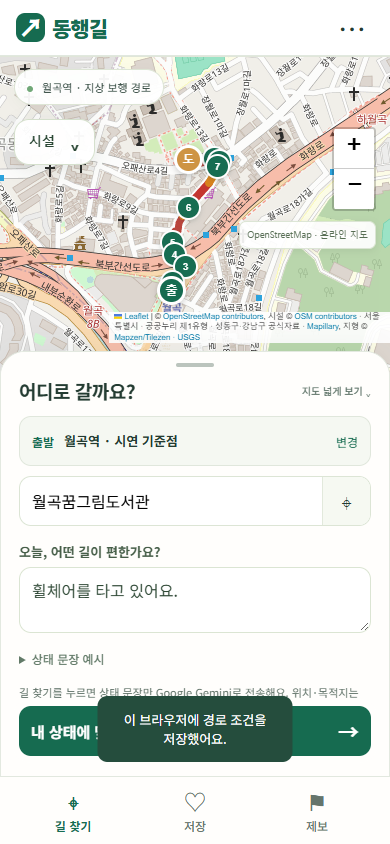
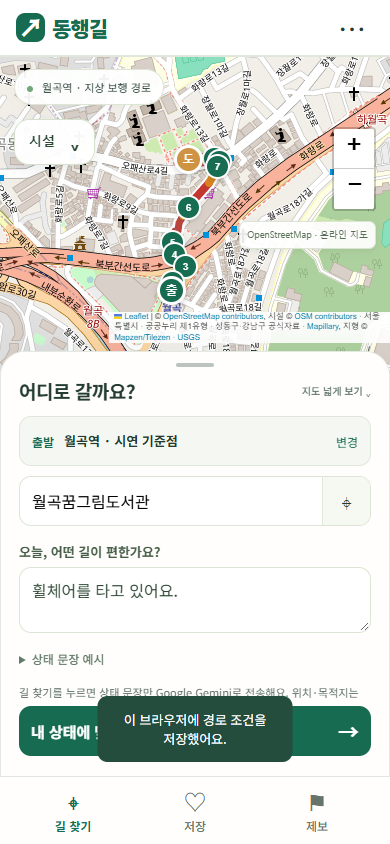
feat: add Vercel Gemini API function and shared request handler

diff --git a/donghaeng-nav/docs/vercel-api.md b/donghaeng-nav/docs/vercel-api.md
@@ -1,0 +1,62 @@
+# Vercel에서 Gemini API 연결하기
+
+작성: 2026-11-01, Asia/Seoul. 코드와 로컬 모의 검사를 준비한 상태다. 실제 Vercel 빌드·배포와 사용자 키의 Gemini 연결은 아직 확인하지 않았다. 재배포는 사용자가 진행한다.
+
+## 요청이 실행되는 방식
+
+휴대폰의 ‘내 상태에 맞는 길 찾기’ → 같은 사이트의 `POST /api/analyze-condition` → Vercel Node.js 함수 → Gemini → 검증된 이동 조건 → 기존 브라우저 경로 엔진 순서다. 브라우저는 상태 문장만 보내고, 서버 함수가 환경변수의 키를 사용한다. 지도 좌표·이동 기록을 Gemini에 보내지 않는다. 함수 실행 버튼이나 별도 AI 버튼을 추가할 필요는 없다.
+
+- `api/index.mjs`: Vercel이 요청마다 호출하는 Node.js 함수 진입점. `app.listen()` 없이 기본 내보내기 함수로 요청을 받는다.
+- `vercel.json`: 실제 화면은 `donghaeng-nav/dist/`에서 제공하고, `/api/status`와 `/api/analyze-condition`을 하나의 함수로 연결한다.
+- `donghaeng-nav/scripts/condition-api.mjs`: 로컬 서버와 Vercel이 함께 쓰는 Gemini 요청·입력/응답 검증·오류 처리.
+- 로컬 전용 `/setup`과 `/api/config`는 Vercel 함수에서 제공하지 않는다. 배포 함수는 `.env` 파일을 읽거나 키를 파일로 저장하지 않는다.
+
+Vercel의 공식 [Node.js 함수](https://vercel.com/docs/functions/runtimes/node-js), [함수 시작 안내](https://vercel.com/docs/functions/quickstart), [설정 파일](https://vercel.com/docs/project-configuration/vercel-json)에 맞춘 구성이다. 함수 내부 공유 코드는 `api/` 밖에 두어 별도의 공개 함수가 생기지 않게 했다.
+
+## Vercel 화면에서 할 일
+
+1. 코드 변경을 커밋·푸시한 뒤, 해당 커밋으로 배포를 생성한다. 기존 커밋을 Redeploy하는 것만으로 새 API 파일이 생기지는 않는다.
+2. 프로젝트 Root Directory는 저장소 최상위 `/`로 유지한다. `donghaeng-nav/dist`를 Root Directory로 바꾸면 최상위 `api/`와 `vercel.json`을 읽을 수 없다.
+3. Application Preset은 `Other`를 유지한다. `vercel.json`에서 Build Command와 Install Command를 빈 문자열, Output Directory를 `donghaeng-nav/dist`로 지정했다. 별도 npm 패키지 설치는 필요 없다.
+4. 프로젝트 Settings → Environment Variables에서 아래 값을 확인한다. 이미 `.env`를 import했다면 이름과 환경 범위를 확인한다. 값은 채팅이나 코드에 붙여넣지 않는다.
+
+| 이름 | 값·범위 |
+| --- | --- |
+| `GEMINI_API_KEY` | 실제 키. 운영 주소는 Production 범위에 설정해야 한다. Preview 주소에서도 검사하려면 Preview에도 설정한다. |
+| `GEMINI_MODEL` | 로컬에서 연결을 확인한 모델명. 생략하면 기존 서버 기본값을 사용한다. |
+
+이 함수에는 `PORT` 설정이 필요 없다. 환경변수를 바꾼 뒤에는 새 배포가 필요하다. [Vercel 환경변수 안내](https://vercel.com/docs/environment-variables).
+
+5. 최신 배포가 Ready이면 Production · Current 상태를 확인하거나 Promote한다. 재배포·운영 전환은 사용자가 직접 진행한다.
+
+## 배포 후 확인하기
+
+먼저 [현재 운영 주소의 API 상태](https://aiaiaiaiaiaiaiai.vercel.app/api/status)를 연다. JSON의 `configured: true`는 **함수가 키를 읽었다는 뜻**이며, Google 인증이나 모델 호출 성공을 확인한 결과가 아니다. 이 상태 확인은 Gemini를 호출하지 않는다.
+
+다음으로 앱 화면에서 상태 문장을 입력하고 기존 길 찾기 버튼을 누른다. 화면에 ‘Gemini 해석’이 표시되는지 확인한다. 실패하면 기존 기기 내 해석으로 대체되며 오류 설명을 표시한다. 실제 키·모델·할당량의 검증은 이 요청이 성공해야 완료된다.
+
+| 증상 | 확인할 항목 |
+| --- | --- |
+| `/api/status`가 404 | 새 API 파일이 있는 커밋을 배포했는지, Root Directory가 저장소 최상위인지 확인 |
+| `configured: false` | `GEMINI_API_KEY` 이름과 Production/Preview 범위, 변수 저장 후 새 배포 여부 확인 |
+| `/api/analyze-condition`을 주소창에서 열면 405 | 이 경로는 JSON POST 전용이므로 정상적인 메서드 제한. 상태 확인은 `/api/status` 사용 |
+| 요청에 502, 화면에 AI 연결 실패 | Vercel Runtime Logs와 Google의 키·모델·접근 권한 확인. 함수는 키나 Google의 원문 오류를 응답에 포함하지 않음 |
+| 429 | Google 할당량 또는 해당 함수 인스턴스의 동시 요청 제한 확인 |
+
+브라우저 코드는 이미 다음 형태의 요청을 보낸다. 직접 새 코드를 입력하거나 키를 브라우저에 넣을 필요는 없다.
+
+```js
+fetch('/api/analyze-condition', {
+  method: 'POST',
+  headers: {'Content-Type': 'application/json'},
+  body: JSON.stringify({condition: '계단을 피하고 중간에 벤치에서 쉬고 싶어요.'})
+});
+```
+
+## 검증과 범위
+
+- `node donghaeng-nav/scripts/test-vercel-api.mjs`: 내보낸 Node 핸들러·rewrite URL·원래 URL·파싱 전/후 본문, 상태·키 누락·메서드·잘못된 입력·다른 Origin·비공개 경로·상위 오류·시간 초과·인스턴스 동시 요청 제한 검사. 결과는 [vercel-api-results.json](vercel-api-results.json)에 있다.
+- `node donghaeng-nav/scripts/test-condition-api.mjs`: 기존 로컬 API·키 설정 후 같은 핸들러에 즉시 적용되는 동작 검사. 실제 사용자 `.env`를 변경하지 않고 임시 모의 키 파일을 사용한다.
+- `CHROME_PATH`를 실제 Chrome 경로로 지정하고 `node donghaeng-nav/scripts/test-auto-plan-ui.cjs`: 기존 버튼의 자동 AI 해석과 기기 내 대체 동작 검사.
+- 검사는 로컬 Node·Chrome과 모의 Google 응답을 사용한다. 실제 Vercel 런타임·빌드 성공, 실제 Gemini 인증·할당량은 미검증이다.
+- 인스턴스 내 동시 요청 제한은 3개이며 전역 사용량 제한이 아니다. 실제 GPS·경로 데이터·35m 정책·HTML은 변경하지 않았다. `research/`는 수정하거나 배포 함수 의존성으로 추가하지 않았다.

diff --git a/수정이력.md b/수정이력.md
@@ -239,3 +239,19 @@
 - 범위: 일반 진행 35m와 별도 이탈·재탐색·도착 기준, 검사 스크립트·결과·화면, HTML 3종·빌드 기록, README·계획·구현 문서·현장 관찰·전달 검증과 수정 이력을 기존 main에 반영한다.
 - 검증: 저장된 코어 24개·브라우저 8개 검사 통과 결과와 HTML 해시를 확인하고, 스테이징 대상의 비밀 값 제외·변경 범위·research 보존을 검사한 뒤 일반 푸시와 원격 main SHA로 반영을 확인한다. 최종 응답에 커밋 링크를 제공한다.
 - 제외·잔여: API 키·인증서·개인 위치 로그·원본 조사 자료는 추가하지 않으며 research는 변경하지 않는다. 조정 후 실제 휴대폰 재검사는 대기 상태다. Vercel 재배포 명령과 실제 Gemini 호출은 수행하지 않는다.
+
+### 2026-11-01 — Vercel Node.js API 연결 준비
+
+- 요청·원인: 정적 배포에서 Gemini를 연결하는 방법과 Node.js 함수 호출 방법을 문의했다. 기존 화면은 이미 `/api/analyze-condition`에 JSON POST를 보내지만, 저장소에는 Vercel 함수 진입점이 없었다. 실제 배포와 운영 전환은 사용자 진행 범위를 유지한다.
+- 변경: 최상위 `api/index.mjs`와 `vercel.json`을 추가했다. 실제 화면은 `donghaeng-nav/dist/`에서 제공하고 `/api/status`, `/api/analyze-condition`을 하나의 Node.js 함수로 rewrite한다. 저장소 최상위 Root Directory·Other·빈 빌드/설치 명령과 함수 최대 30초를 명시했다.
+- 공통 처리: 기존 로컬 서버의 Gemini 요청·입력/응답 검증·오류 처리를 `scripts/condition-api.mjs`로 추출해 양쪽에서 재사용한다. 함수는 환경변수만 읽고 키 파일 읽기·저장·별도 listen 서버를 포함하지 않는다. 로컬 `/setup`·`/api/config`는 기존 로컬 서버에만 남겼다. 상태 문장만 전송하며 휠체어 계단 회피·JSON 검증·시간 초과·기기 내 대체 흐름을 유지한다. 인스턴스 동시 요청 제한 3개는 전역 사용량 제한이 아니다.
+- 문서·산출물: 신규 `docs/vercel-api.md`에 환경변수 범위·재배포·상태 확인·실제 요청·문제별 점검 방법과 공식 문서를 기록했다. README·전달 검증·이 수정 이력을 갱신했다. 신규 `scripts/test-vercel-api.mjs`, `docs/vercel-api-results.json`과 로컬 키 설정 회귀 검사를 추가했고 기존 자동 AI UI 검사의 모바일 화면을 갱신했다.
+- 검증: 로컬 API 계약·보안·오류 회귀와 임시 모의 키의 설정 변경 반영 통과. 내보낸 Vercel Node 핸들러를 로컬 HTTP로 실행해 원래/rewrite URL·파싱 전/후 본문·환경변수 상태·키 누락·메서드·다른 Origin·잘못된 입력/크기·설정/비공개 경로 차단·모델 오류·상위 429/네트워크/응답 오류·시간 초과·인스턴스 동시 제한 7개 시나리오 묶음을 통과했다. 기존 자동 AI UI 17개 검사도 통과하고 스크립트 오류 0건이다. 화면의 수동 AI 버튼이나 조건 체크박스를 추가하지 않았다.
+- 범위·잔여: 실제 Vercel 빌드와 런타임·사용자 키의 Google 인증/모델·할당량은 미검증이다. `/api/status`의 configured는 키 존재 여부만 의미하며 Gemini 호출 검증이 아니다. 정적 앱 자원·35m GPS 정책·엔진·지도 데이터·HTML 3종은 그대로라 재빌드하지 않았다. 사용자 research·실제 `.env`는 변경하지 않았다. 실제 Gemini 호출·커밋·푸시·Vercel 재배포는 수행하지 않았다.
+
+### 2026-11-01 — Vercel API 연결 코드 커밋·푸시 요청
+
+- 요청: 준비한 Vercel Node.js 함수·공통 API 처리·설정과 관련 문서·검증 결과를 커밋하고 기존 GitHub main에 푸시한다.
+- 범위: `api/index.mjs`, `vercel.json`, 공통 API 모듈·로컬 서버 연결·API 검사, 연결 안내·검사 결과·모바일 회귀 화면, README·전달 검증·수정 이력을 반영한다.
+- 검증: 저장된 Vercel 핸들러 모의 검사 7개 묶음과 기존 자동 AI UI 17개 검사 통과, 로컬 API·키 설정 회귀 통과 결과를 확인한다. 스테이징 범위·비밀 값 제외·정적 앱/HTML 불변·research 트리 보존과 공백을 확인한 뒤 일반 푸시하고 원격 main SHA로 반영을 확인한다. 최종 응답에 커밋 링크를 제공한다.
+- 제외·잔여: 실제 API 키·인증서·원본 조사 자료·개인 위치 로그는 추가하지 않는다. Vercel 배포 명령·실제 Gemini 호출은 실행하지 않으며, 사용자의 새 배포와 Production 환경변수·실제 API 성공 확인이 필요하다.

diff --git a/README.md b/README.md
@@ -2,6 +2,8 @@
 
 전체 수정 이력과 앞으로의 필수 기록 규칙은 [수정이력.md](수정이력.md)에 있습니다. **모든 수정은 작업 완료 전에 이 문서에 추가 기록하세요.** 작업 지침은 [AGENTS.md](AGENTS.md)를 따릅니다.
 
+Vercel의 지도·GPS 배포에 Gemini를 연결하는 Node.js 함수와 설정은 [Vercel API 연결 안내](donghaeng-nav/docs/vercel-api.md)에 정리했습니다. 코드와 로컬 모의 검사를 준비했으며, 새 커밋 배포와 Production 환경변수·실제 Gemini 호출 확인은 사용자가 진행해야 합니다. 기존 `Other`와 저장소 최상위 Root Directory를 유지합니다.
+
 다음 기능의 설계는 [내비게이션 구현 계획](내비게이션-구현계획.md)에 정리했습니다. Android Chrome·iPhone Safari의 GPS 품질·선분 매칭·자동 구간 안내·재탐색·휴식·도착 확인과 현장 검증 단계에 대한 계획이며, 현재 구현 완료를 뜻하지 않습니다.
 
 ## GPS 안내·경로 재생 — 기술 시연 버전
